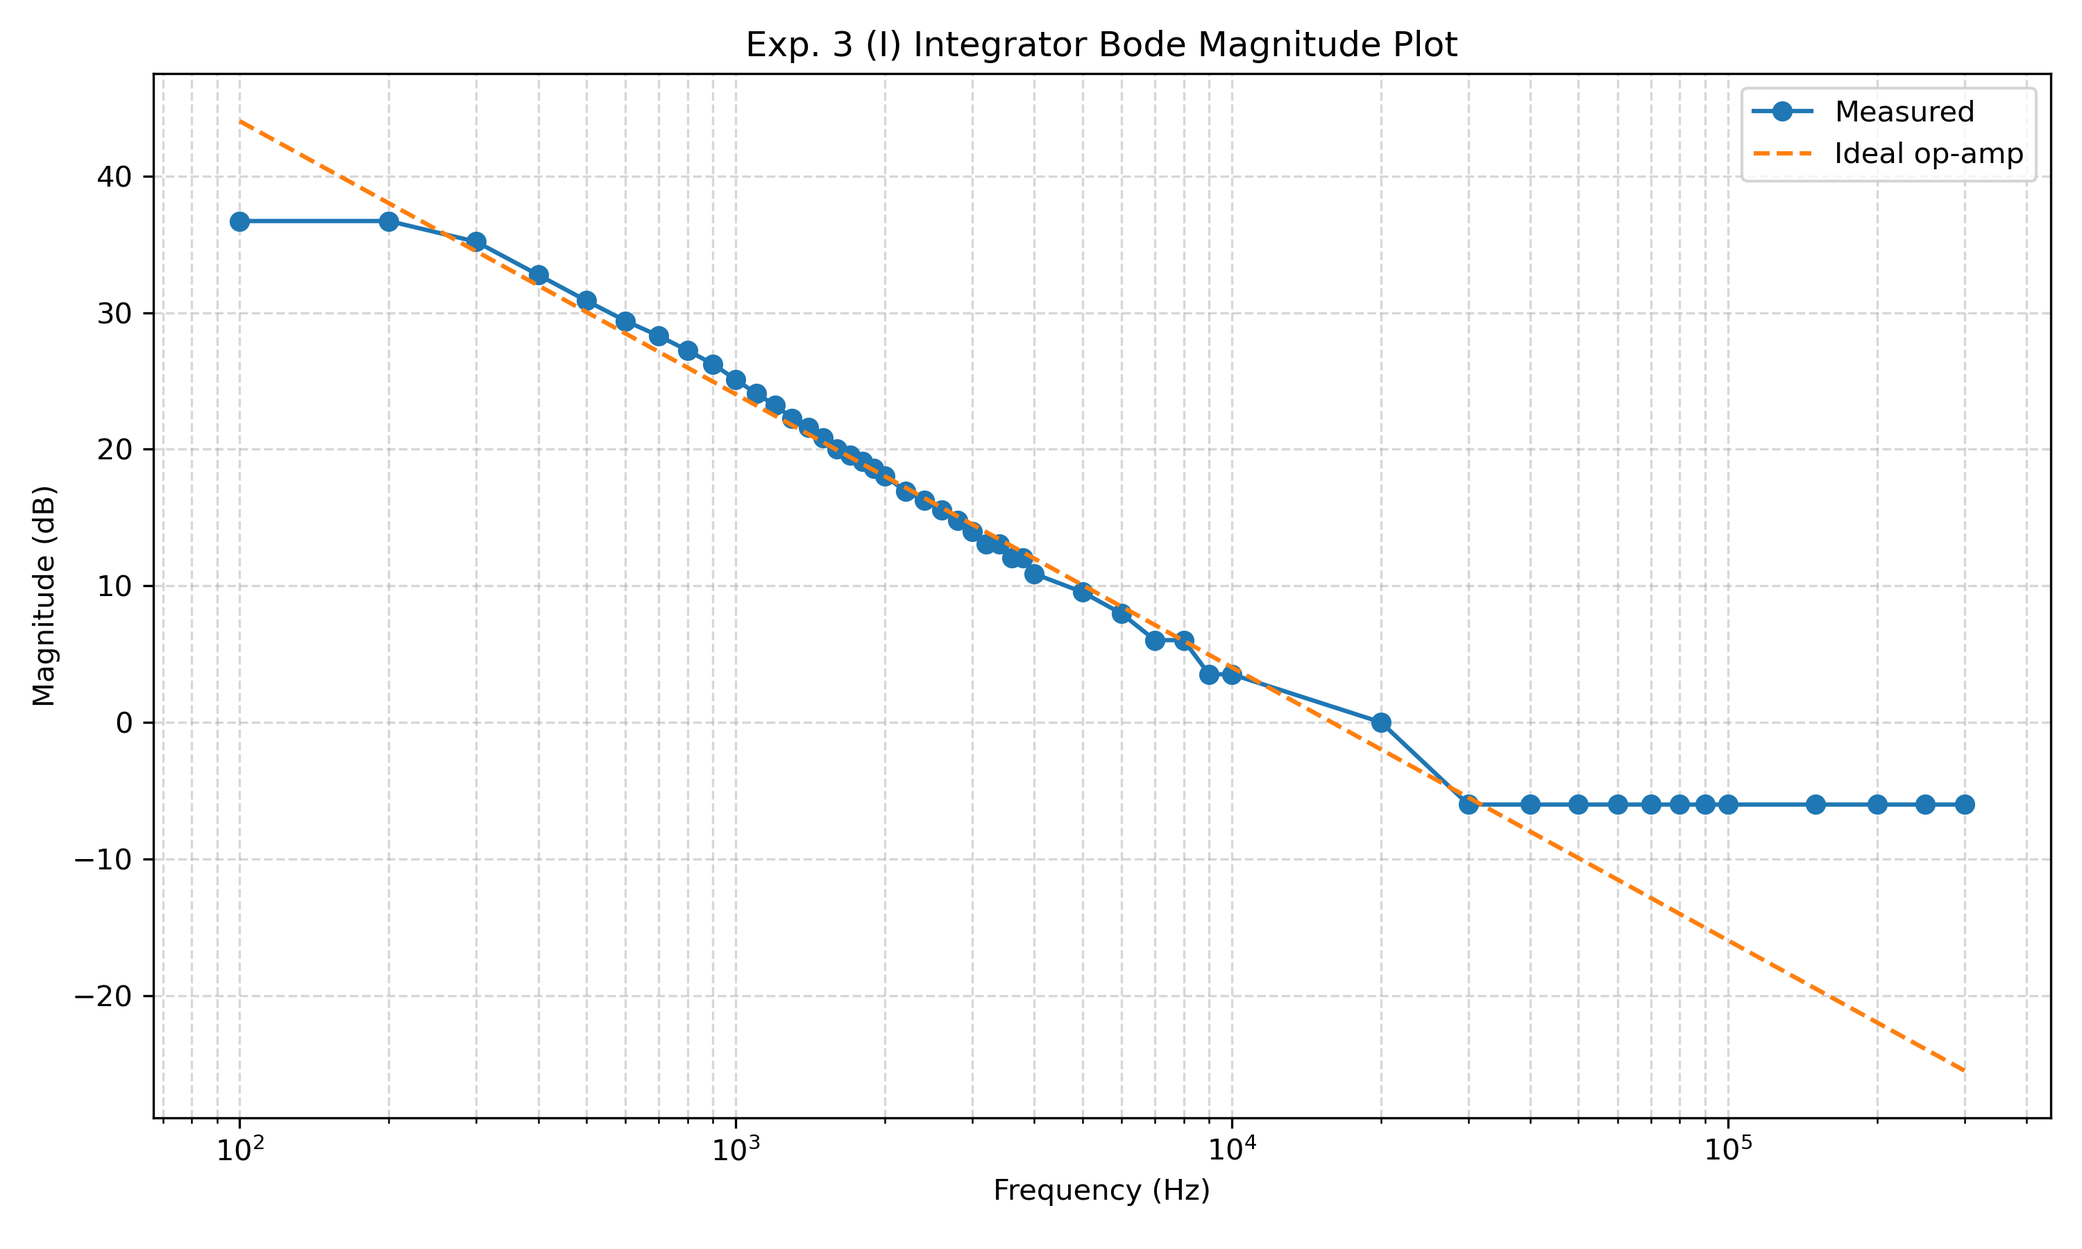
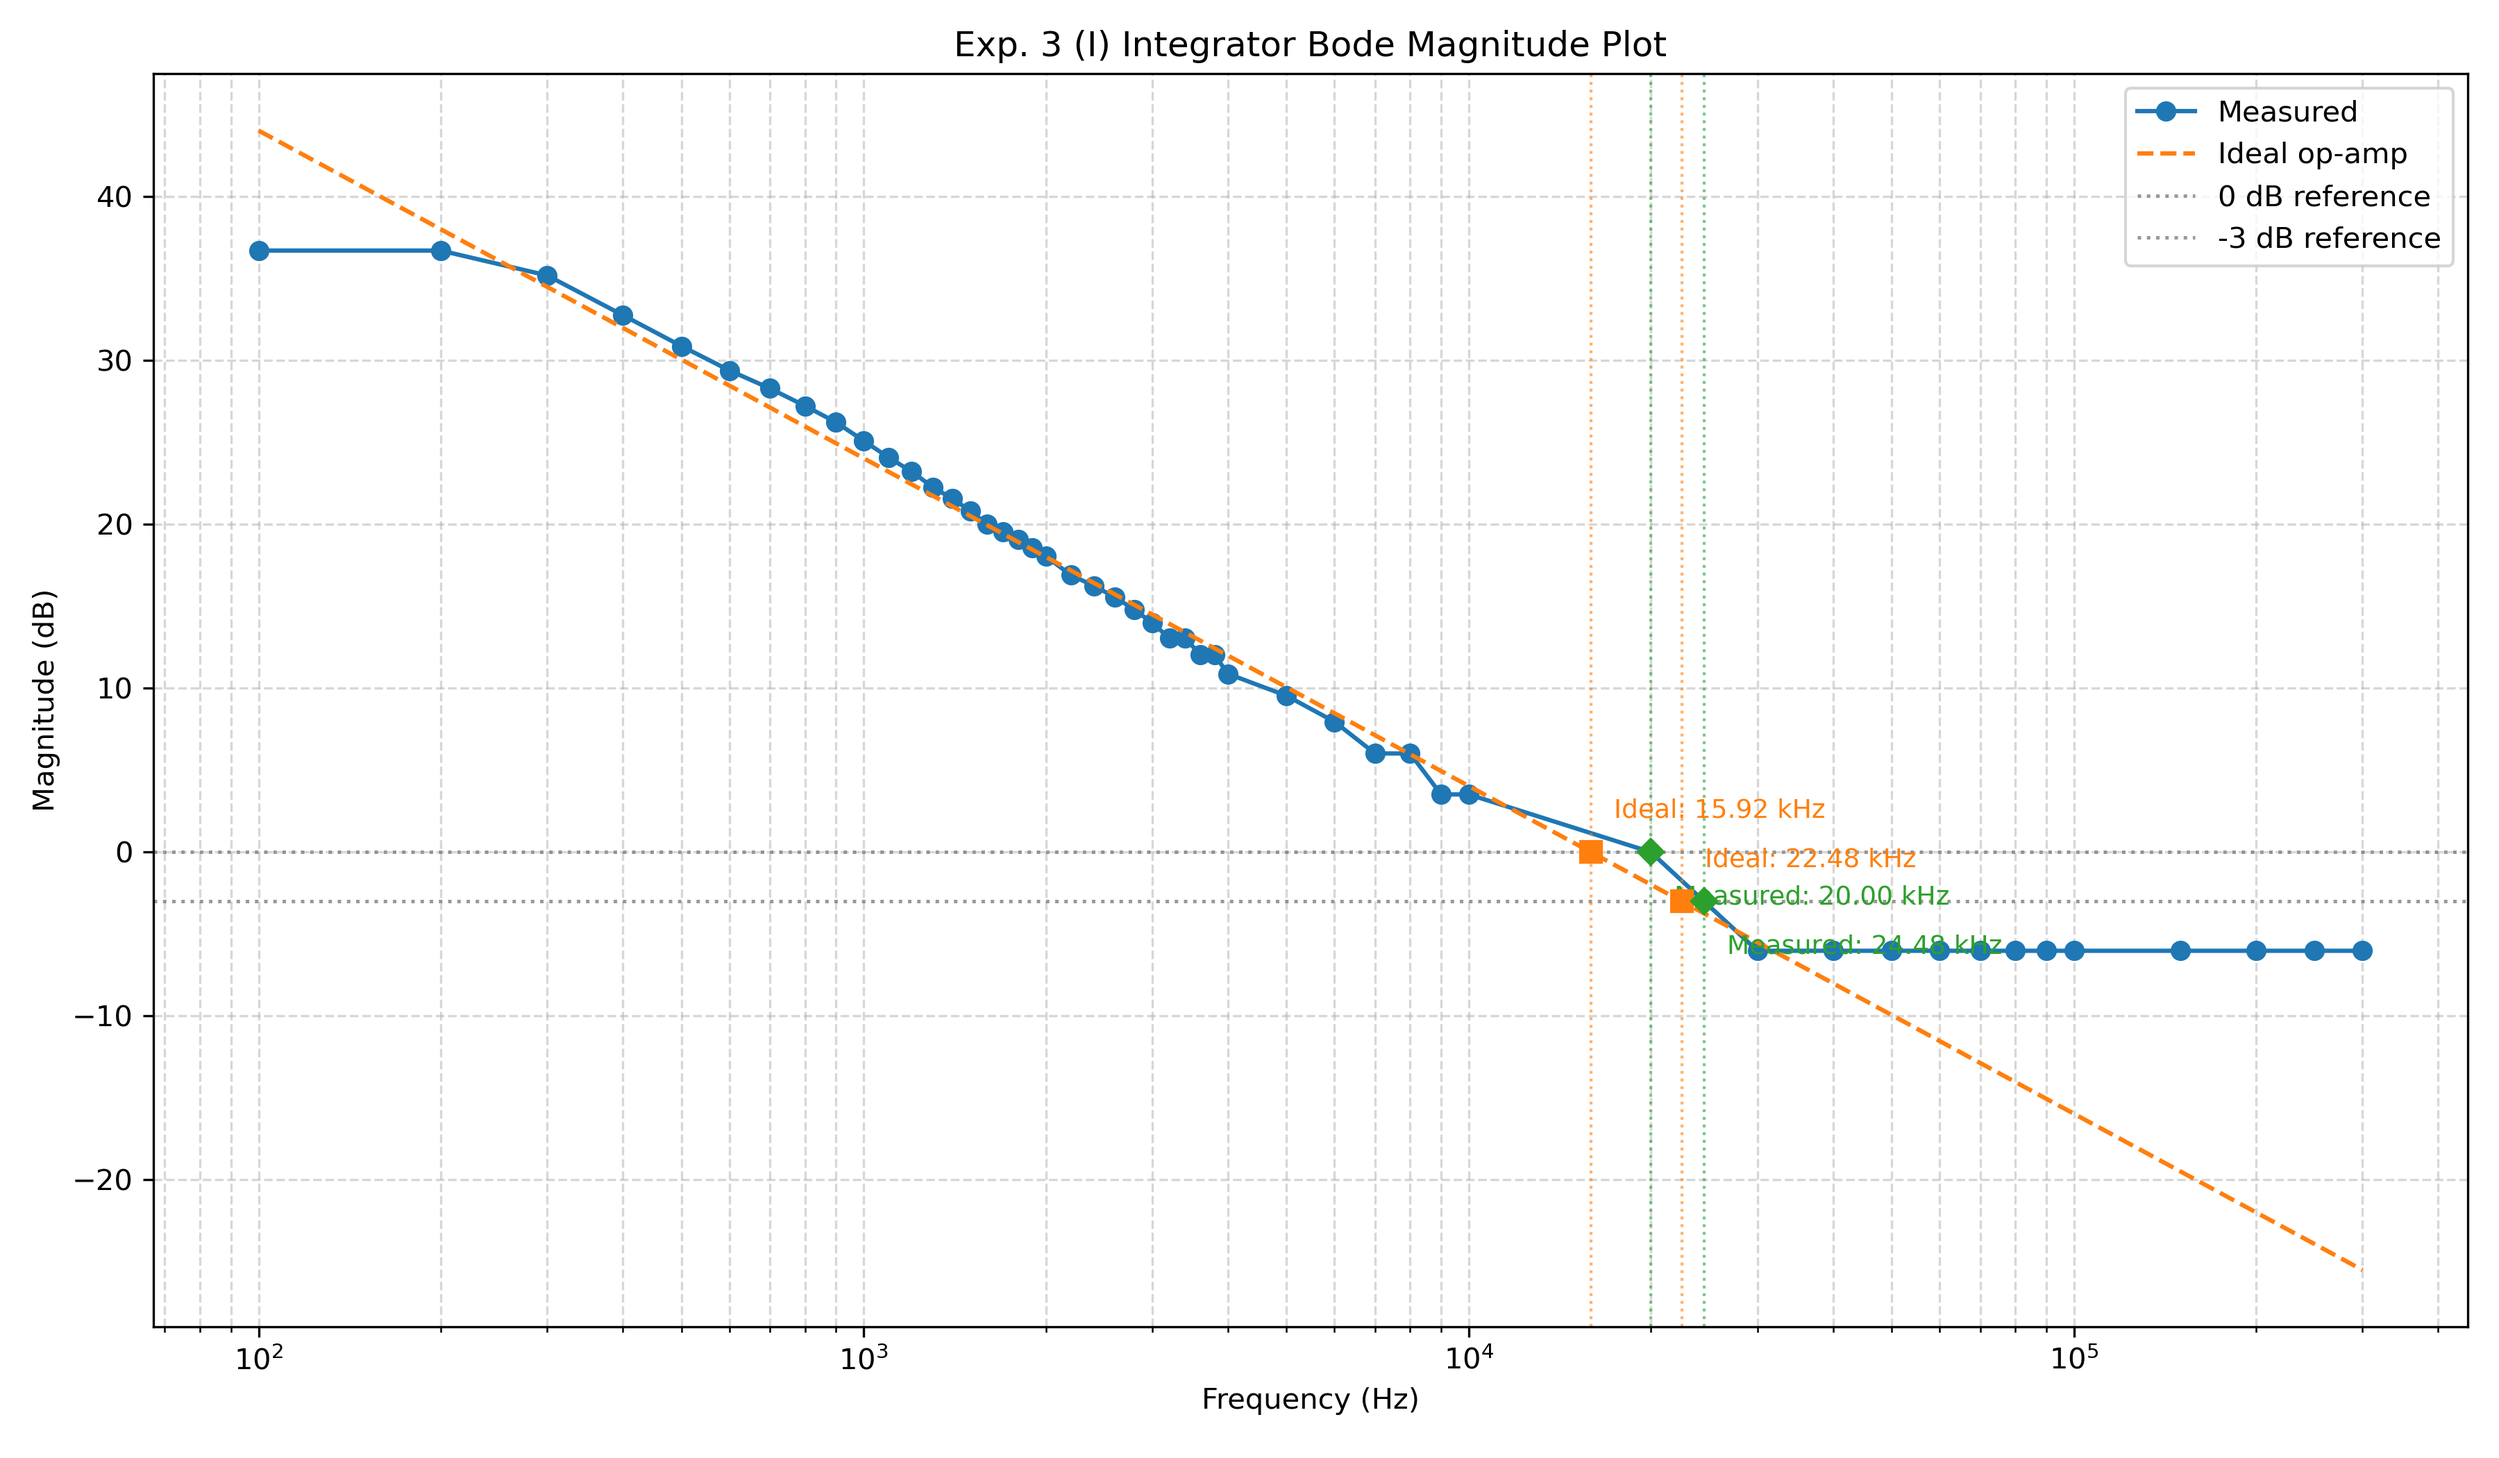
2026-11-08T10:09:28+00:00

diff --git a/2/post-lab/Integrators, Differentiators, and Their Frequency Responses 結報.tex b/2/post-lab/Integrators, Differentiators, and Their Frequency Responses 結報.tex
@@ -8,7 +8,7 @@
 \sct{Exp. 1 Integrator}
 \ssc{Circuit}
 Measure $v_I$ and $v_O$ waveforms of an op amp where input voltage $v_I$ is connected to $v_-$ through an input resistance $R=1$ k\textOmega (current from $v_I$ to $v_-$), $v_+$ is connected to ground, and $v_O$ is fed back to $v_-$ through a capacitance $C=0.01$ \textmu{}F (103) (current from $v_-$ to $v_O$), under triangle, square, and sinusoidal $v_I$ with amplitude $0.2$.
-\sssc{Theoretical results}
+\ssc{Theoretical results}
 $v_O(0^-)$ is the initial voltage across $C$ ($v_O$ relative to $v_-$).
 
 Time domain:
@@ -37,13 +37,14 @@ Triangle wave output with amplitude $\frac{AT}{4RC}$
 Sinusoidal output 90 degrees leading input with amplitude $\frac{AT}{RC}$.
 \[v_O(t)=\frac{AT}{RC}\cos(\frac{t}{T})\]
 \eit
-\ssc{實驗結果}
+\ssc{實驗結果與數據分析}
 Triangle wave:
 \cticg[width=0.8\tw]{int_trig.jpg}
 Square wave:
 \cticg[width=0.8\tw]{int_squ.jpg}
 Sinusoidal wave:
 \cticg[width=0.8\tw]{int_sin.jpg}
+All three agree with the theoretical results.
 \sct{Exp. 2 Differentiator}
 \ssc{Circuit}
 Measure $v_I$ and $v_O$ waveforms of an op amp where input voltage $v_I$ is connected to $v_-$ through an input capacitor $C=0.01$ \textmu{}F (103) (current from $v_I$ to $v_-$), $v_+$ is connected to ground, and $v_O$ is fed back to $v_-$ through a resistor $R=1$ k\textOmega (current from $v_-$ to $v_O$), under triangle, square, and sinusoidal $v_I$ with amplitude $0.2$.
@@ -75,13 +76,14 @@ Dirac delta sum output
 Sinusoidal output 90 degrees lagging input with amplitude $\frac{ARC}{T}$.
 \[v_O(t)=-\frac{ARC}{T}\cos(\frac{t}{T})\]
 \eit
-\ssc{實驗結果}
+\ssc{實驗結果與數據分析}
 Triangle wave:
 \cticg[width=0.8\tw]{dif_trig.jpg}
 Square wave:
 \cticg[width=0.8\tw]{dif_squ.jpg}
 Sinusoidal wave:
 \cticg[width=0.8\tw]{dif_sin.jpg}
+All three agree with the theoretical results. For the triangle wave input, the underdamping effect at each transition of square wave output is likely due to parasitic impedances.
 \sct{Exp. 3 Frequency Responses (I) Integrator}
 \ssc{Circuit}
 Measure frequency response of the circuit in Exp. 1 Integrator under
@@ -131,10 +133,15 @@ Transfer function: STC low-pass with cutoff frequency $\frac{1}{2\pi R_FC}$ and 
 \sct{誤差可能原因}
 The differences between the theoretical and experimental results may be attributed to the following factors:
 \bit
-\item Non-ideal operational amplifier characteristics: The operational amplifier has finite open-loop gain, gain-bandwidth product, slew rate, etc. Thus, its behavior deviates from the ideal op-amp model, especially at high frequencies.
-\item Output saturation: The ideal integrator has infinite DC gain. Small DC offsets and input bias currents may make low-frequency measurements deviate from the ideal op-amp model.
-\item Measurement limitations: Oscilloscope precision may introduce errors, especially when the output amplitude becomes small.
-\item Component errors: The actual resistance and capacitance values may differ from their nominal values. Probes, wires, and contact points may have nonzero impedance.
+\item Measurement limitations: Oscilloscope has inadequate precision when the output amplitude becomes small.
+\item Non-ideal operational amplifier characteristics: The operational amplifier has finite open-loop gain, gain-bandwidth product, slew rate, etc.
+\item Output saturation: The ideal integrator has infinite DC gain. Small DC offsets and input bias may make low-frequency measurements deviate from the ideal op-amp model.
+\item Component tolerances: The actual resistance and capacitance values may differ from their nominal values, and the probes and contact points may have nonzero impedances.
+\item Parasitic effects: Parasitic impedances in the circuit and measurement equipment may affect the frequency response, especially at high frequencies.
 \eit
 \sct{實驗心得}
+\ssc{B14901078 林孜謙}
+PLACEHOLDER
+\ssc{B14901153 沈威宇}
+
 \end{document}

diff --git a/2/post-lab/bode_plot.py b/2/post-lab/bode_plot.py
@@ -34,6 +34,30 @@ def magnitude_db(H):
     return 20 * np.log10(np.abs(H))
 
 
+def find_crossings(freq, gain_db, level):
+    x = np.log10(freq)
+    y = np.asarray(gain_db) - level
+    crossings = []
+    for i in range(len(x) - 1):
+        if y[i] * y[i + 1] < 0:
+            xc = x[i] - y[i] * (x[i + 1] - x[i]) / (y[i + 1] - y[i])
+            crossings.append(10**xc)
+        elif y[i] == 0:
+            crossings.append(freq[i])
+    if len(y) > 0 and y[-1] == 0:
+        crossings.append(freq[-1])
+    return sorted(set(crossings))
+
+
+def format_frequency(freq):
+    if freq >= 1e6:
+        return f"{freq / 1e6:.2f} MHz"
+    elif freq >= 1e3:
+        return f"{freq / 1e3:.2f} kHz"
+    else:
+        return f"{freq:.1f} Hz"
+
+
 def process(C, freq, vout_pp, name, title, plotname, tablename):
     assert freq.shape == vout_pp.shape
     freq = np.asarray(freq, dtype=float)
@@ -81,17 +105,67 @@ def process(C, freq, vout_pp, name, title, plotname, tablename):
     table.scale(1, 1.5)
     fig.savefig(tablename, dpi=300, bbox_inches="tight")
     plt.close(fig)
-    plt.figure(figsize=(10, 6))
-    plt.semilogx(freq, measured_db, "o-", label="Measured")
-    plt.semilogx(freq, ideal_db, "--", label="Ideal op-amp")
-    plt.xlabel("Frequency (Hz)")
-    plt.ylabel("Magnitude (dB)")
-    plt.title(title)
-    plt.grid(True, which="both", linestyle="--", alpha=0.5)
-    plt.legend()
-    plt.tight_layout()
-    plt.savefig(plotname, dpi=300)
-    plt.close()
+    fig, ax = plt.subplots(figsize=(12, 7))
+    ax.semilogx(freq, measured_db, "o-", label="Measured")
+    ax.semilogx(freq, ideal_db, "--", label="Ideal op-amp")
+    reference_levels = [0, -3]
+    reference_colors = ["pink", "violet"]
+    for level, color in reference_levels, reference_colors:
+        ax.axhline(
+            level,
+            color=color,
+            linestyle=":",
+            linewidth=1.2,
+            alpha=0.8,
+            label=f"{level} dB reference",
+        )
+    freq_dense = np.logspace(
+        np.log10(freq.min()),
+        np.log10(freq.max()),
+        10000,
+    )
+    ideal_dense_db = magnitude_db(transfer_function(freq_dense, name, C))
+    crossing_names = ["Ideal", "Measured"]
+    crossing_colors = ["tab:orange", "tab:blue"]
+    for level in reference_levels:
+        crossings = [
+            find_crossings(freq_dense, ideal_dense_db, level),
+            find_crossings(freq, measured_db, level),
+        ]
+        for crossing, name, color in crossings, crossing_names, crossing_colors:
+            for i, fc in enumerate(crossings):
+                ax.plot(
+                    fc,
+                    level,
+                    marker="D",
+                    markersize=6,
+                    color=color,
+                    zorder=5,
+                )
+                ax.axvline(
+                    fc,
+                    color=color,
+                    linestyle=":",
+                    alpha=0.6,
+                    linewidth=1,
+                )
+                ax.annotate(
+                    f"{name}: {format_frequency(fc)}",
+                    xy=(fc, level),
+                    xytext=(8, -18 - 16 * i),
+                    textcoords="offset points",
+                    fontsize=9,
+                    color=color,
+                    ha="left",
+                )
+    ax.set_xlabel("Frequency (Hz)")
+    ax.set_ylabel("Magnitude (dB)")
+    ax.set_title(title)
+    ax.grid(True, which="both", linestyle="--", alpha=0.5)
+    ax.legend()
+    fig.tight_layout()
+    fig.savefig(plotname, dpi=300)
+    plt.close(fig)
 
 
 freq_int_103 = np.concatenate(
